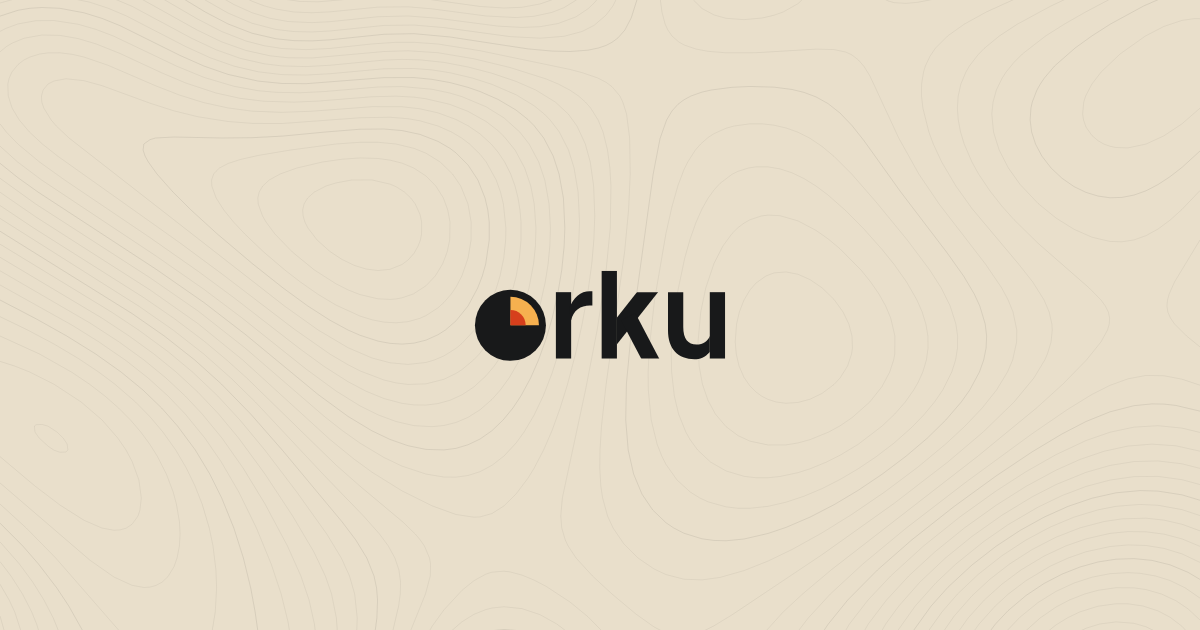
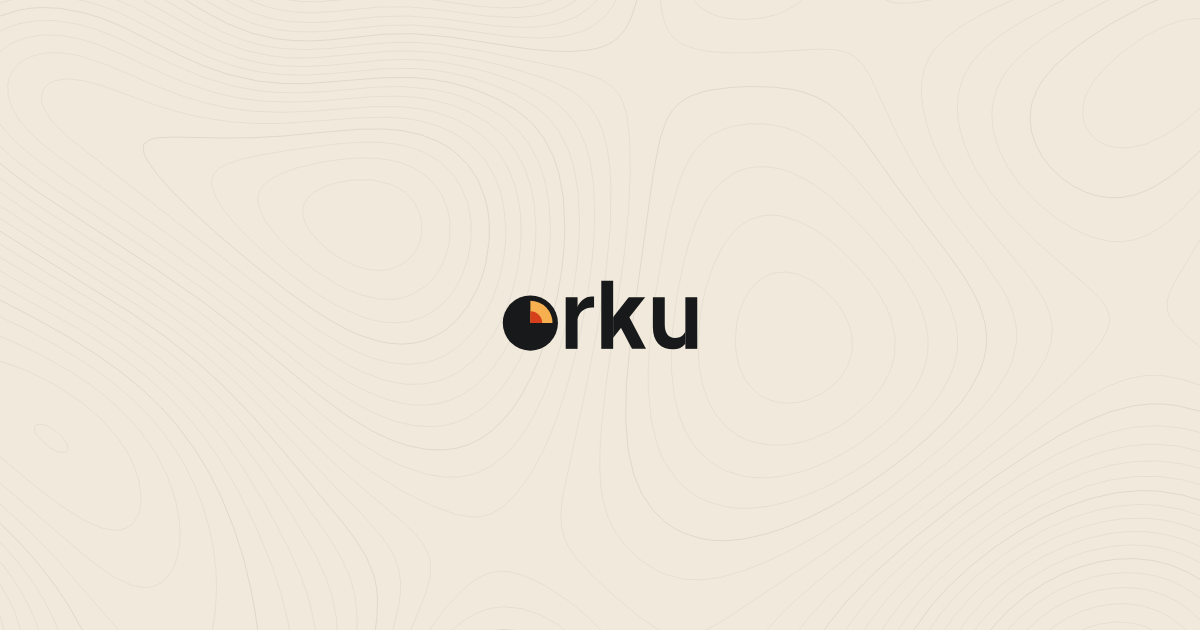
Lighten background sand to #F1EADC
Regenerate og-image.png to match.

Changed region(s): [[0.37, 0.4222, 0.6167, 0.573]]

diff --git a/index.html b/index.html
@@ -3,7 +3,7 @@
 <head>
   <meta charset="utf-8">
   <meta name="viewport" content="width=device-width, initial-scale=1">
-  <meta name="theme-color" content="#E9DFCB">
+  <meta name="theme-color" content="#F1EADC">
   <title>orku</title>
   <link rel="icon" href="orku-mark.svg" type="image/svg+xml">
   <link rel="canonical" href="https://orku.ai/">
@@ -20,7 +20,7 @@
   <meta property="og:image:alt" content="The orku logo on a sand background with faint contour lines">
   <meta name="twitter:card" content="summary_large_image">
   <style>
-    :root { --sand: #E9DFCB; }
+    :root { --sand: #F1EADC; }
     html, body { margin: 0; height: 100%; background: var(--sand); }
     body {
       touch-action: none;
